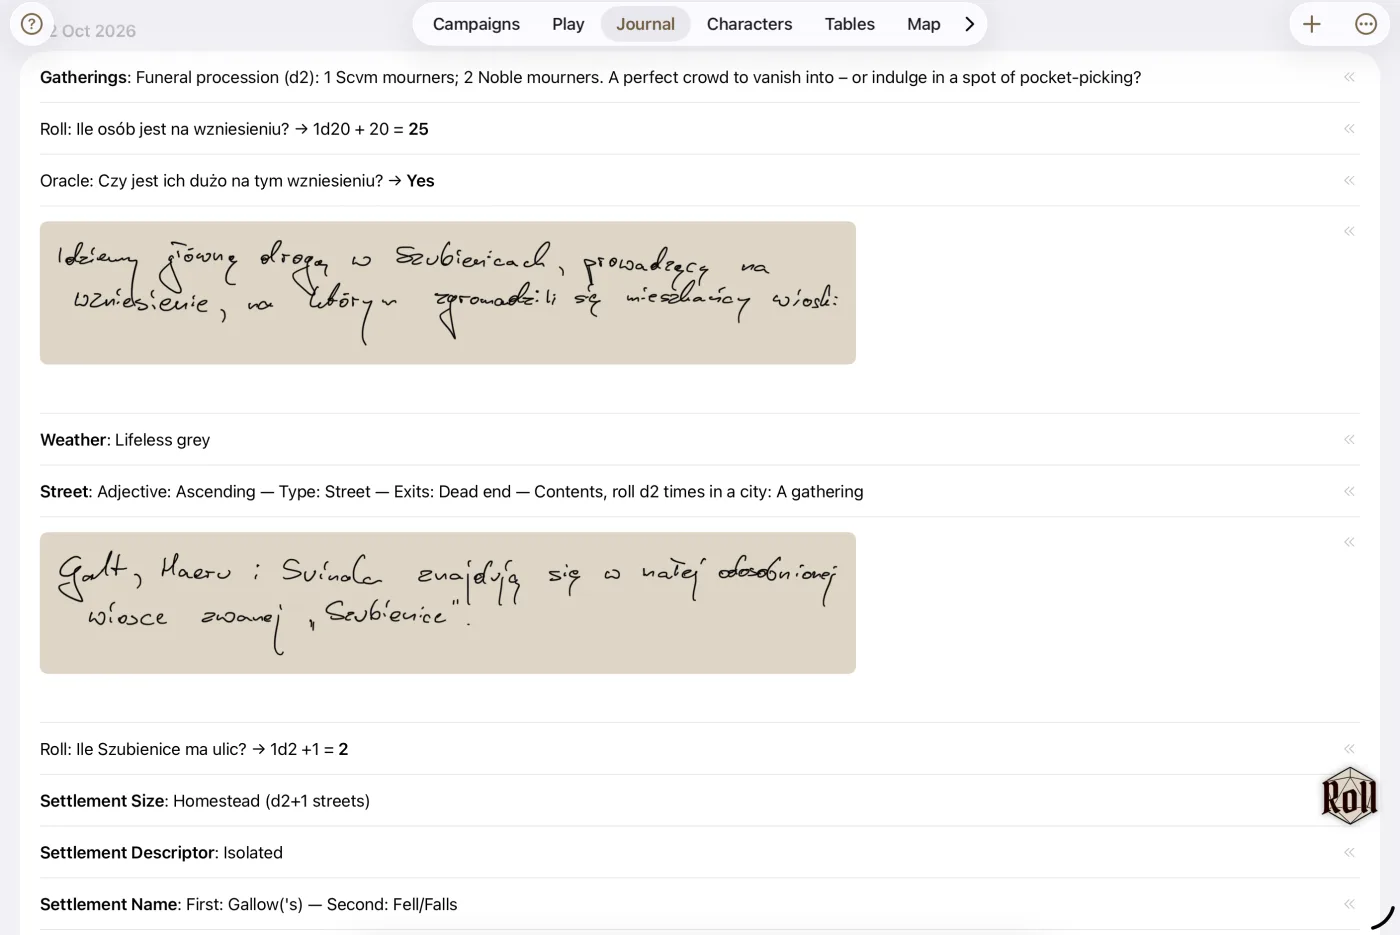
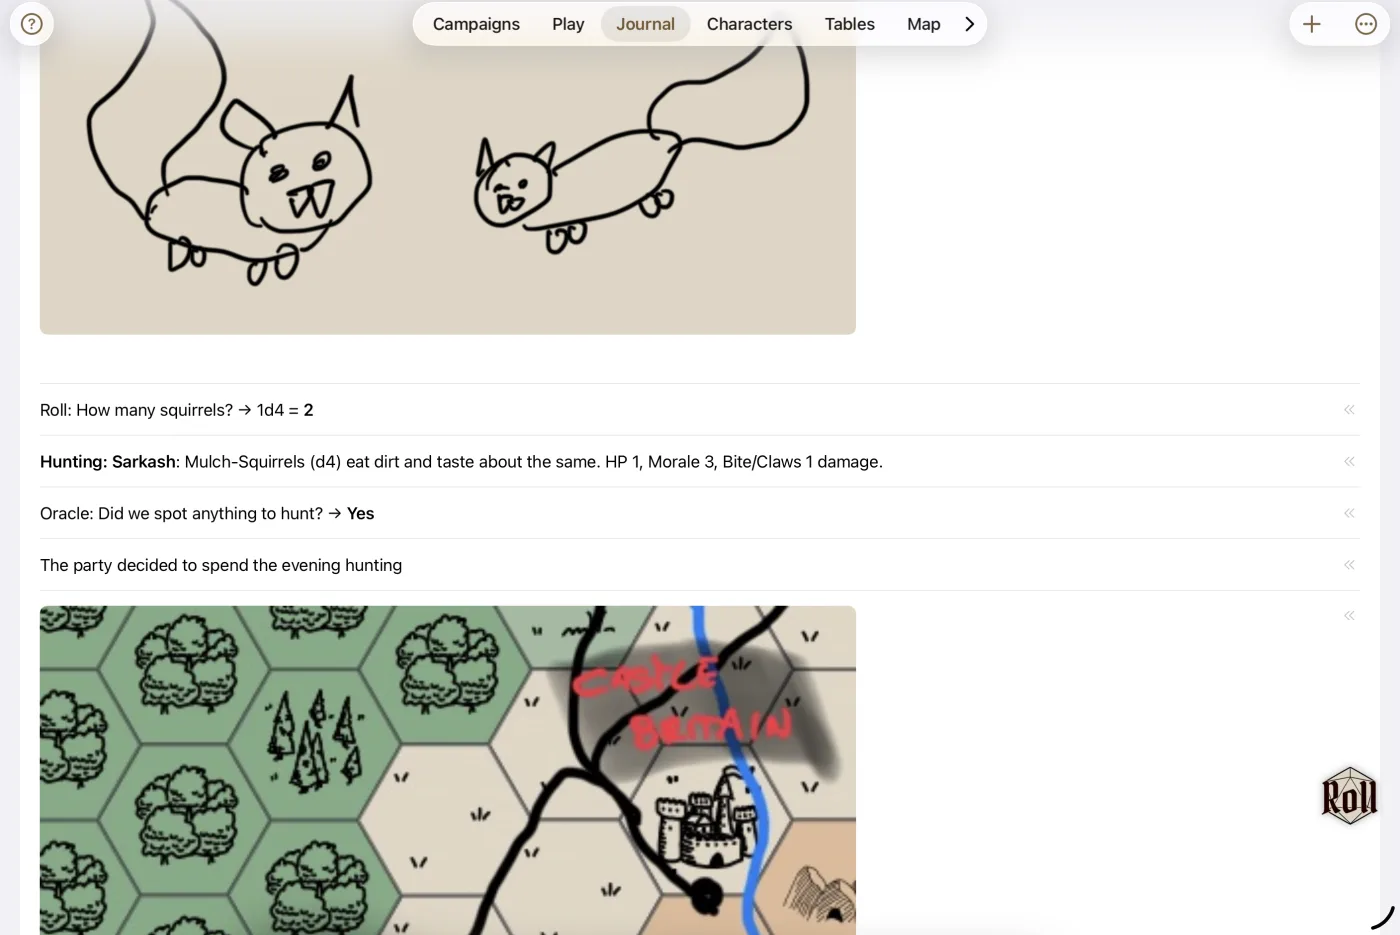
Add tables screenshot and an English journal screenshot
The random tables section becomes a spotlight with the From Text import
shown; Journal and Characters swap sides to keep the alternation.

Claude-Session: https://claude.ai/code/session_01Kopdr2YFZpW5ChJHoEjhsJ

diff --git a/index.html b/index.html
@@ -65,13 +65,18 @@
         <figure class="shot"><img src="/screens/play.webp" width="1400" height="935" alt="The Play tab with the dice roller and its roll history" loading="lazy"></figure>
       </section>
 
+      <section class="spotlight">
+        <div class="spotlight-text">
+          <span class="eyebrow">Random tables</span>
+          <h2>Build your own collection of random tables</h2>
+          <p>Every table you make goes into one library, sorted by category. Choose which tables each campaign uses, roll on them from Play, and every result lands in your journal.</p>
+        </div>
+        <figure class="shot"><img src="/screens/tables.webp" width="1400" height="935" alt="Pasting two tables as plain text into the New Table sheet, with both recognized and ready to import" loading="lazy"></figure>
+      </section>
     </div>
 
     <div class="wrap">
       <section class="tables">
-        <span class="eyebrow">Random tables</span>
-        <h2>Build your own collection of random tables</h2>
-        <p class="lede">Every table you make goes into one library, sorted by category. Choose which tables each campaign uses, roll on them from Play, and every result lands in your journal.</p>
         <div class="ways">
           <div class="tier">
             <h3>Start from scratch</h3>
@@ -94,16 +99,16 @@
     </div>
 
     <div class="wrap wide">
-      <section class="spotlight">
+      <section class="spotlight flip">
         <div class="spotlight-text">
           <span class="eyebrow">Journal</span>
           <h2>The story writes itself down</h2>
           <p>Every roll and oracle answer is logged for you, next to your typed, handwritten, or voice-memo entries.</p>
         </div>
-        <figure class="shot"><img src="/screens/journal.webp" width="1400" height="935" alt="A journal mixing random table results, rolls, oracle answers, and handwritten notes" loading="lazy"></figure>
+        <figure class="shot"><img src="/screens/journal.webp" width="1400" height="935" alt="A journal mixing Apple Pencil doodles, dice rolls, a random table result, an oracle answer, and a snapshot of the map" loading="lazy"></figure>
       </section>
 
-      <section class="spotlight flip">
+      <section class="spotlight">
         <div class="spotlight-text">
           <span class="eyebrow">Characters</span>
           <h2>Write on your character sheet</h2>

diff --git a/style.css b/style.css
@@ -197,9 +197,7 @@ footer.site a { color: var(--muted); }
 .tier p { margin: 0; color: var(--muted); font-size: 15px; line-height: 1.5; }
 .promise { margin: 20px 0 0; font-weight: 600; }
 
-.tables { text-align: center; padding: 24px 0 16px; }
-.tables h2 { font-size: 28px; margin: 6px 0 12px; text-wrap: balance; }
-.tables .lede { color: var(--muted); margin: 0 auto 20px; max-width: 34em; }
+.tables { margin: -8px 0 16px; }
 .ways {
   display: grid;
   grid-template-columns: repeat(2, 1fr);
